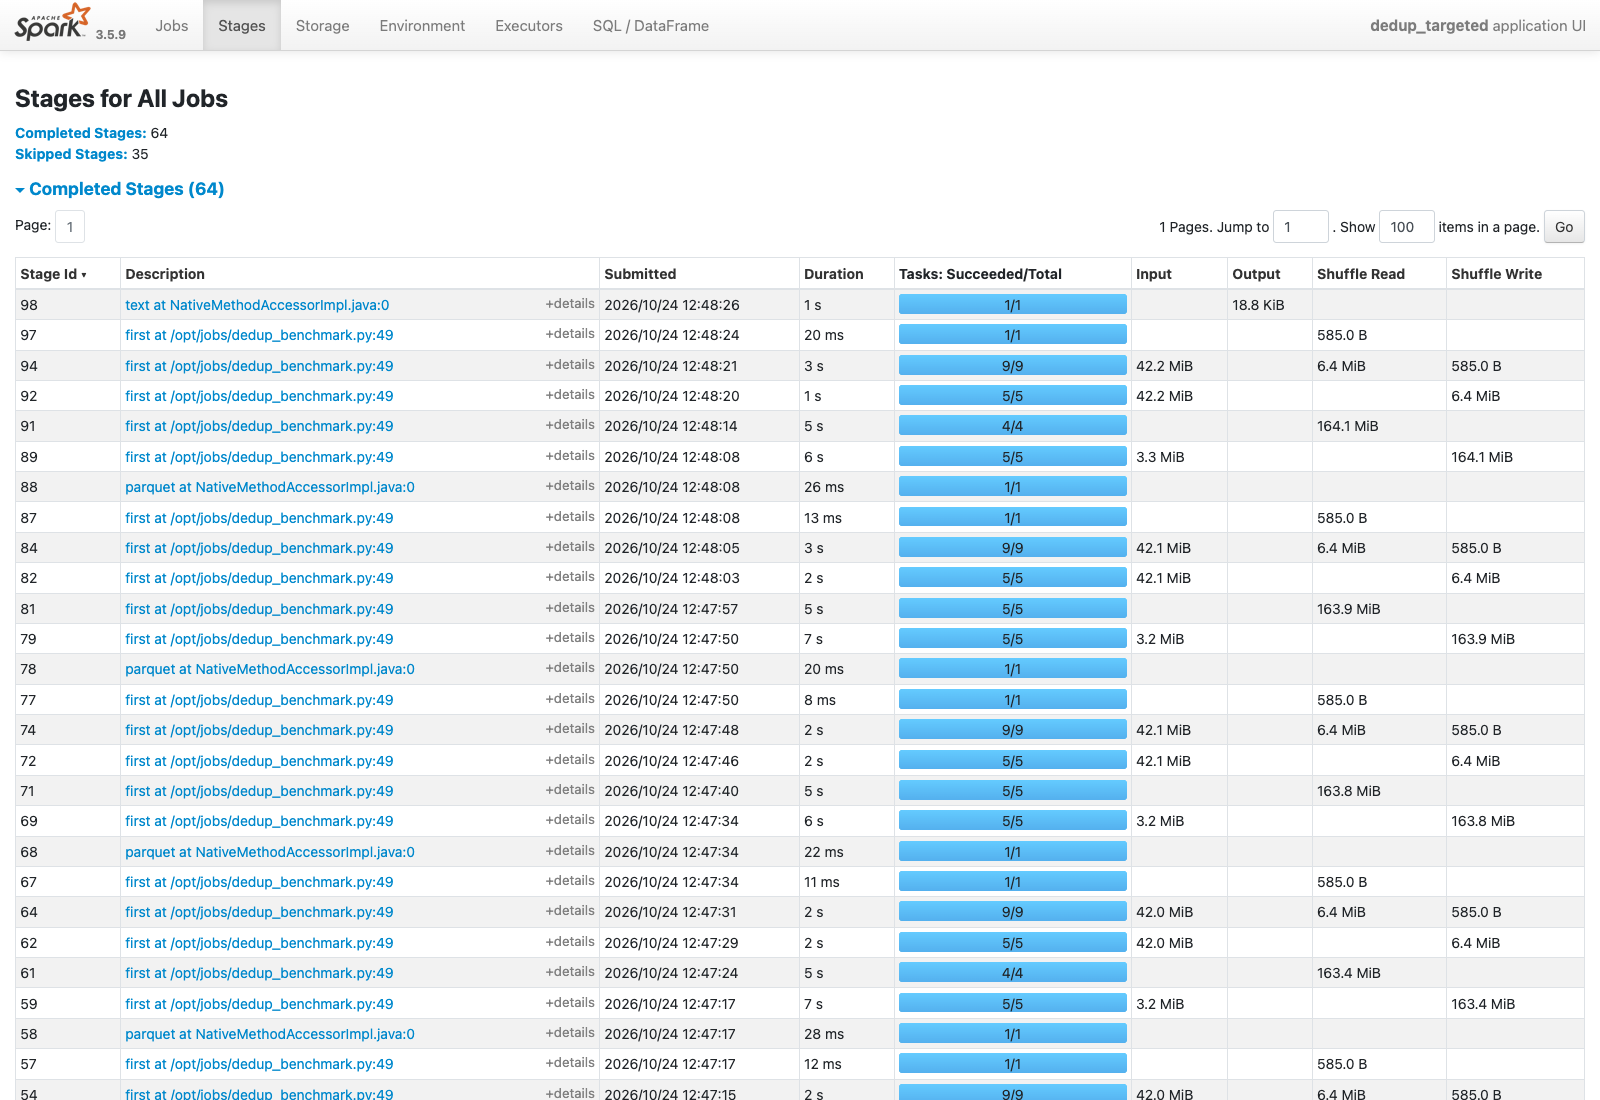
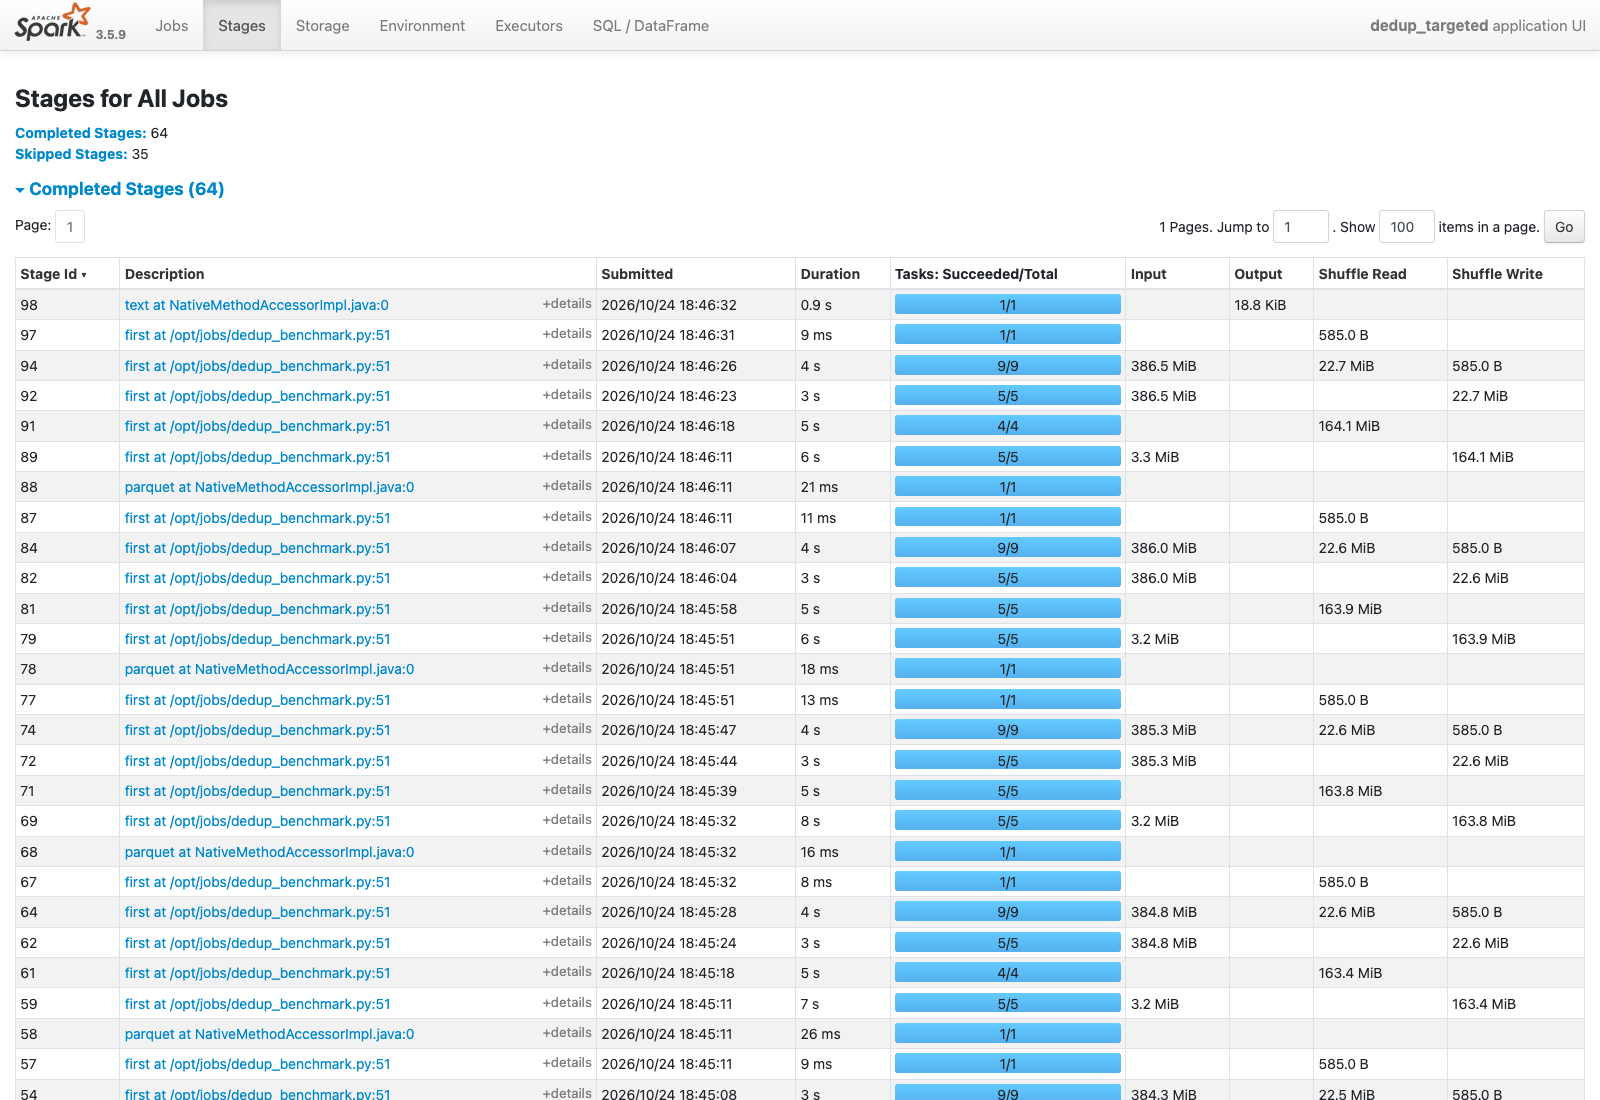
fix(spark): benchmark the ping dedup on whole rows
The checksum hashed only the key and uploaded_ts, so Spark pruned every other column and the
benchmark compared key-only deduplication. It now hashes every column, as silver keeps every
column. Rerun on the same 7 full-scale days: the window method 110.7 s and 7.59 GB of shuffle,
the targeted method 144.0 s and 1.40 GB; same rows removed (3,254,424) and the same checksum.
The choice stays (the window is faster), with new sizes: 82% less shuffle, 30% slower. The doc
keeps the first run's numbers as the key-only run, explains that the shuffle holds only the
kept rows (Spark 3.5 filters row_number() = 1 before the shuffle), and has new screenshots; the
daily projection in airflow.md uses the new time.

diff --git a/jobs/dedup_benchmark.py b/jobs/dedup_benchmark.py
@@ -13,7 +13,9 @@ folder. Both methods keep the earliest upload of each key:
                run the window only on the rows of the duplicated keys
 
 Both report the rows in and out, a checksum of the kept rows (they must agree), the wall time, and
-the shuffle and spill of every stage. The result goes to s3a://lakehouse/_benchmarks/dedup/.
+the shuffle and spill of every stage. The checksum hashes every column, so Spark reads and moves
+whole rows as silver does; a checksum of the key alone would let it prune the other columns. The
+result goes to s3a://lakehouse/_benchmarks/dedup/.
 """
 
 import argparse
@@ -45,8 +47,8 @@ def targeted(day: DataFrame) -> DataFrame:
 
 
 def summary(df: DataFrame) -> dict:
-    """Return the row count and an order-free checksum of the kept rows."""
-    row = df.agg(F.count("*").alias("rows"), F.sum(F.xxhash64(*KEY, "uploaded_ts")).alias("hash")).first()
+    """Return the row count and an order-free checksum of the kept rows, over all their columns."""
+    row = df.agg(F.count("*").alias("rows"), F.sum(F.xxhash64(*df.columns)).alias("hash")).first()
     return {"rows": row.rows, "hash": row.hash}
 
 

diff --git a/docs/spark_optimization.md b/docs/spark_optimization.md
@@ -300,40 +300,50 @@ def targeted(day):
 ```
 
 **Results (2026-10-24), on the first 7 full-scale export dates.** The table shows each method's
-time, and the shuffle and spill summed over its stages.
+time, and the shuffle and spill summed over its stages. The checksum hashes every column of the
+kept rows, so Spark reads and moves whole rows, as silver does.
 
 | Method | Rows in | Rows kept | Removed | Wall time | Shuffle written | Spill, memory / disk |
 |---|---:|---:|---:|---:|---:|---:|
-| window | 166,023,384 | 162,768,960 | 3,254,424 (1.9994% of kept) | **73.3 s** | 2.12 GB | 7.58 / 2.06 GB |
-| targeted | 166,023,384 | 162,768,960 | 3,254,424 (1.9994% of kept) | 120.2 s | **1.28 GB** | 29.09 / 1.71 GB |
+| window | 166,023,384 | 162,768,960 | 3,254,424 (1.9994% of kept) | **110.7 s** | 7.59 GB | 13.69 / 5.04 GB |
+| targeted | 166,023,384 | 162,768,960 | 3,254,424 (1.9994% of kept) | 144.0 s | **1.40 GB** | 29.09 / 1.71 GB |
 
 - The rows removed match the injection. The generator re-uploads 2.00% of the rows, and both
   methods remove 1.9994% of the rows they keep.
-- The two methods agree. They keep the same rows, with the same checksum
-  (−6,968,598,871,620,969,569).
-- The targeted method writes 40% less shuffle, as planned, because Spark shuffles only the two key
-  columns and the 4% of rows with a duplicated key.
-- But it is 64% slower here. Spark reads each day three times: for the key count, the anti-join
-  and the semi-join. The seven days also run one after another, and the job of each day is too
-  small to keep the 4 cores busy.
+- The two methods agree. They keep the same rows, with the same checksum over all columns
+  (−8,388,574,024,912,642,748).
+- The targeted method writes 82% less shuffle, as planned. Spark shuffles only the key counts and
+  the rows of the duplicated keys.
+- But it is 30% slower. Spark reads each day three times: for the key count, the semi-join and
+  the anti-join. The seven days also run one after another, and the job of each day is too small
+  to keep the 4 cores busy.
+
+A first run that morning hashed only the key and `uploaded_ts`. Spark then read and shuffled only
+those three columns (window 73.3 s and 2.12 GB of shuffle, targeted 120.2 s and 1.28 GB). That
+run compared key-only deduplication, not silver's, so the table above replaces it.
 
 **What the Spark UI shows.** The window method has one big shuffle, in stage 29. That stage reads
-the 7 days (166,023,384 rows, 294.1 MiB of Parquet) in 34 tasks. It writes 2,019.7 MiB of shuffle
-for the `row_number()` window and spills 3.6 GiB in memory and 914.6 MiB to disk. Its tasks are
-even, 4 s at the median and 10 s at most, so there is no skew to fix. The only problem here is the
-volume.
+the 7 days (166,023,384 rows, 2.6 GiB of Parquet) in 34 tasks. It writes 7.1 GiB of shuffle and
+spills 12.7 GiB in memory and 4.7 GiB to disk. The shuffle holds 162,768,960 records, exactly the
+rows kept: Spark 3.5 applies the `row_number() = 1` filter inside each map task, before the
+shuffle. So the duplicates never leave the map side, but every column of every kept row is
+shuffled.
 
-![dedup_window, stage 29: 2,019.7 MiB of shuffle written and 3.6 GiB spilled for one window over all 7 days](images/spark/dedup-window-shuffle-stage.png)
+The tasks are even, 9 s at the median and 11 s at most, so there is no skew to fix. The only
+problem here is the volume.
+
+![dedup_window, stage 29: 7.1 GiB of shuffle written and 12.7 GiB spilled for one window over all 7 days](images/spark/dedup-window-shuffle-stage.png)
 
 The targeted method has many small stages instead. For each day, one stage reads the two key
-columns (3.2 MiB) and shuffles the key counts. Two more stages read the whole day again (42 MiB
-each), for the anti-join and the semi-join. Each stage has 4 to 9 tasks and lasts 1 to 7 s, so the
-4 cores wait between stages. That is where most of its extra 47 s goes.
+columns (3.2 MiB) and shuffles 164 MiB of key counts. Two more stages read the whole day again
+(386 MiB each). One sends the rows of the duplicated keys to the window, which is only 22.7 MiB of
+shuffle; the other passes every other row through the anti-join. Each stage has 4 to 9 tasks and
+lasts 3 to 8 s, so the 4 cores wait between stages. That is where most of its extra 33 s goes.
 
-![dedup_targeted, all stages: per day, a key-count stage of 3.2 MiB, then two more reads of the 42 MiB day](images/spark/dedup-targeted-stages.png)
+![dedup_targeted, all stages: per day, a key-count stage of 3.2 MiB, then two more reads of the 386 MiB day](images/spark/dedup-targeted-stages.png)
 
-A ping has 10 to 12 narrow columns, so shuffling whole rows costs less than reading the files
-from SeaweedFS again.
+A ping has 10 to 12 narrow columns. On this cluster, shuffling the whole rows once costs less
+than reading each day from SeaweedFS three times.
 
 **The choice for the pipeline.** Silver keeps the window method
 (`jobs/dp2_silver.py`, `row_number()` over `(courier_id, device_seq)` by `uploaded_ts`). The
